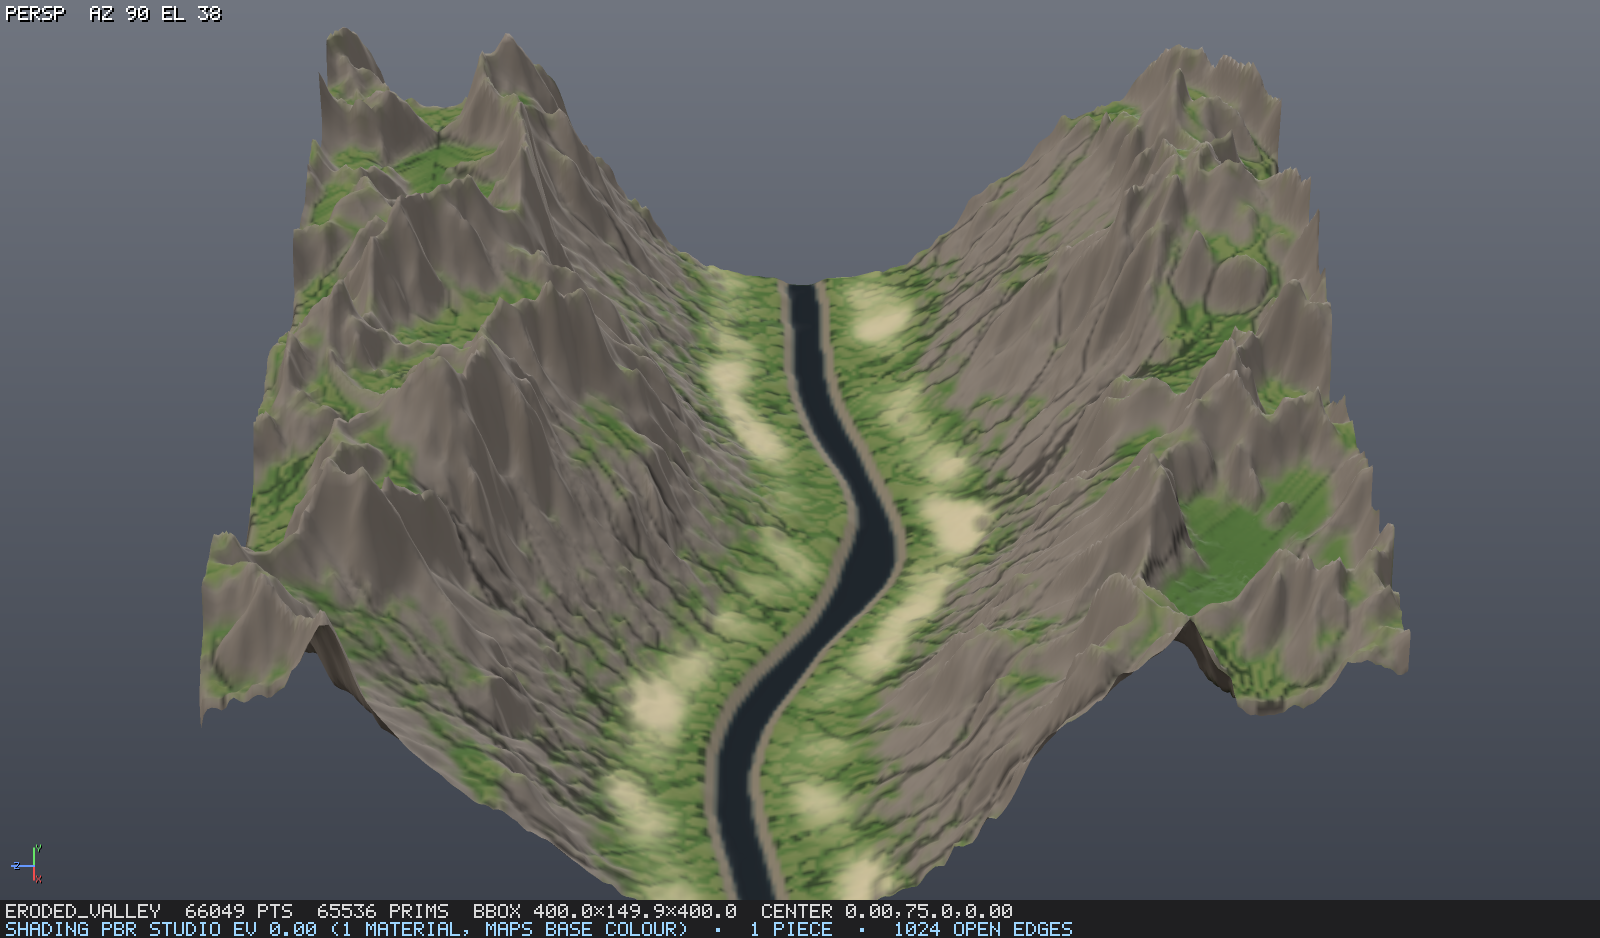
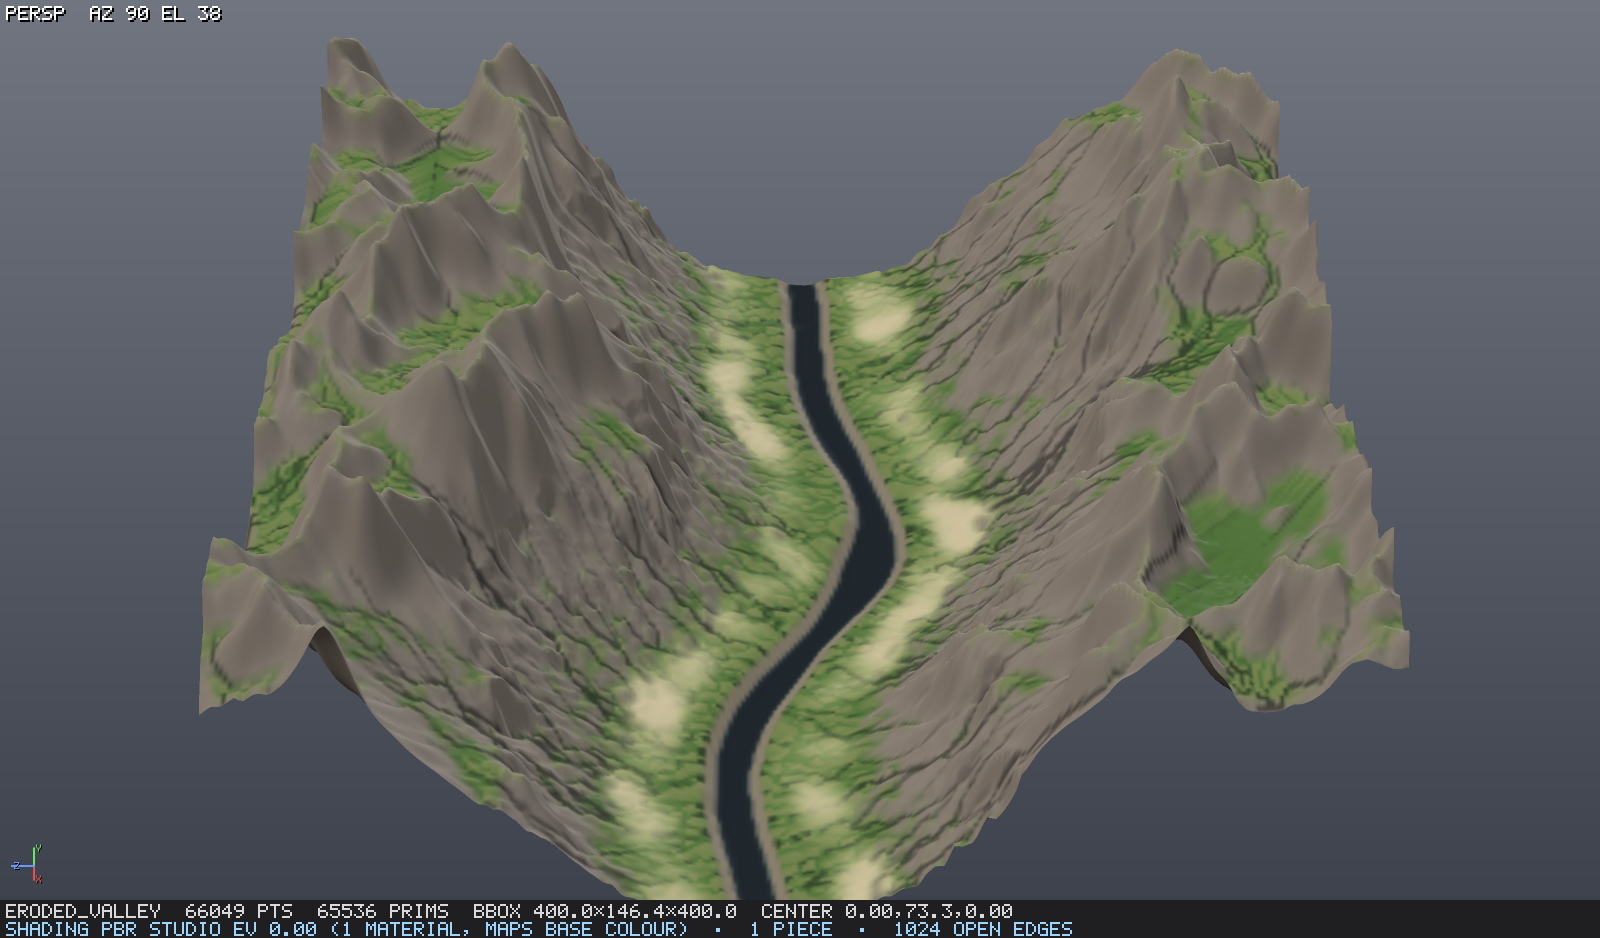
eroded_valley: frost-weathered peaks; the banks note names F-133

diff --git a/examples/eroded_valley.md b/examples/eroded_valley.md
@@ -5,7 +5,7 @@ terrain for a game engine.
 
 ## In
 - size: 100–2000 m, default 400. Side of the square terrain.
-- height: 20–600 m, default 150. From the valley floor to the highest ridge.
+- height: 20–600 m, default 150. The highest ridges stand about this far above the valley floor.
 - erosion: 0–1, default 0.6. How long the rain wears the ground; 0 leaves it raw.
 - river_depth: 0–20 m, default 4. How deep the river cuts into the valley floor.
 - seed: 0–9999, default 1. Changes the mountains, not the look.
